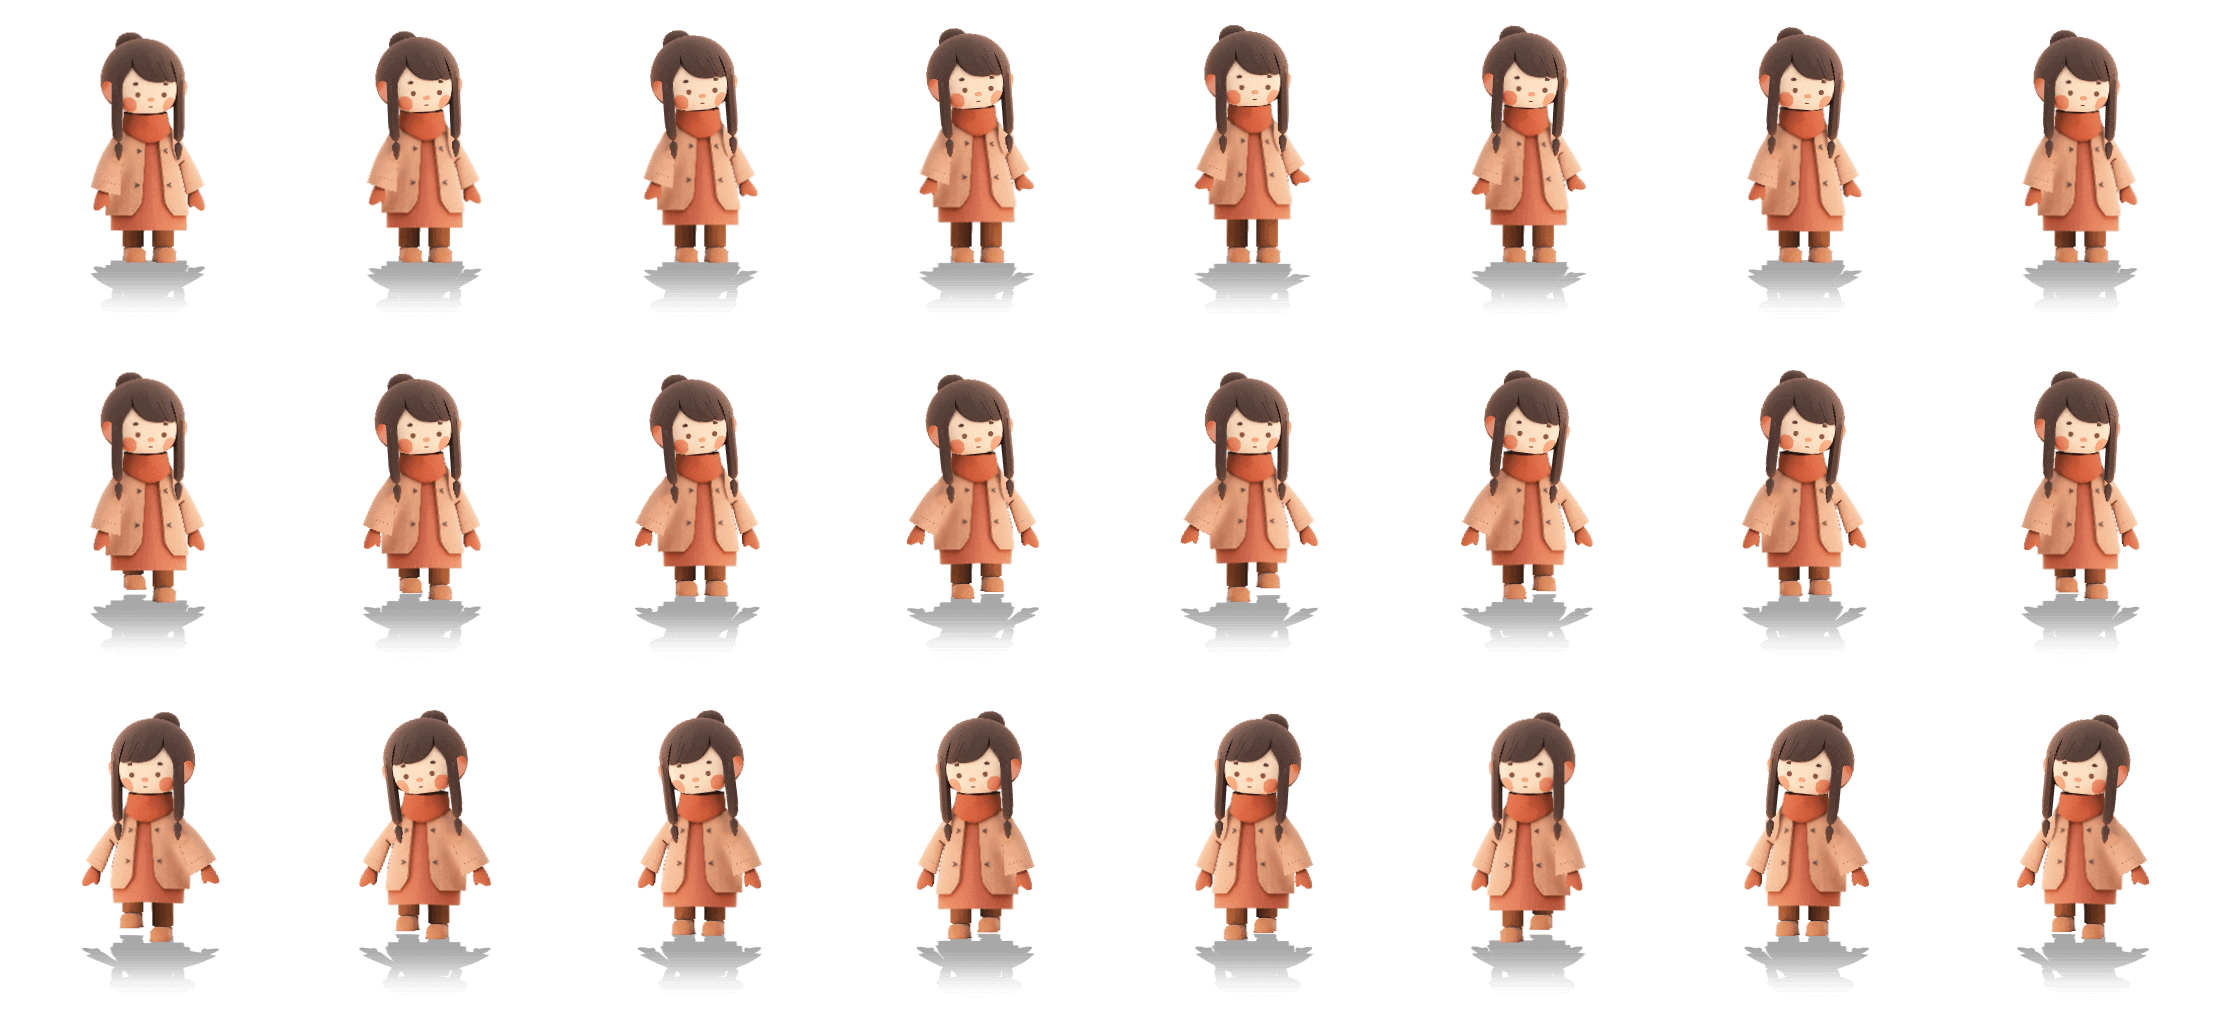
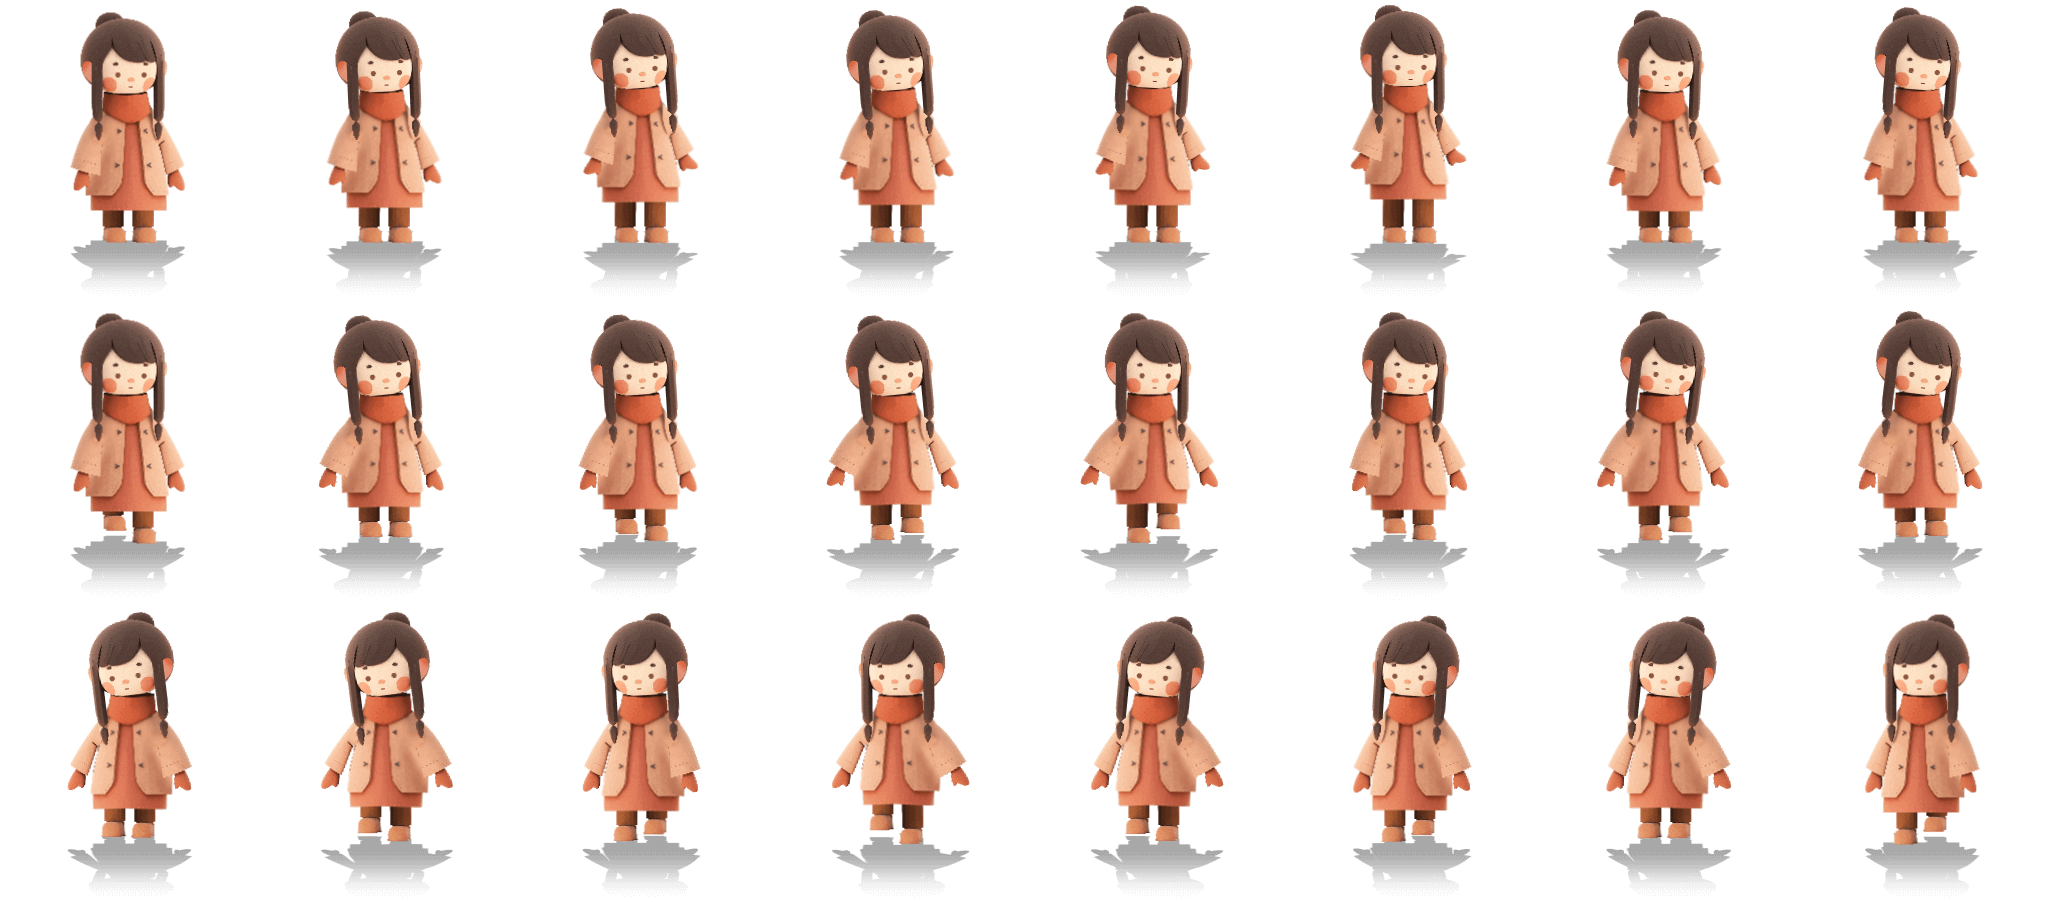
alice

diff --git a/assets/js/objects/Hero.js b/assets/js/objects/Hero.js
@@ -9,7 +9,7 @@ export default class Hero extends Character {
       height: 150,
       srcWidth: 256,
       srcHeight: 300,
-      src: '/assets/images/characters/alice.png',
+      src: '/assets/webp/characters/alice.webp',
       animations: {
         idle: {
           steps: 8,
